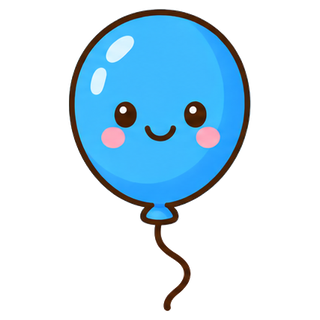
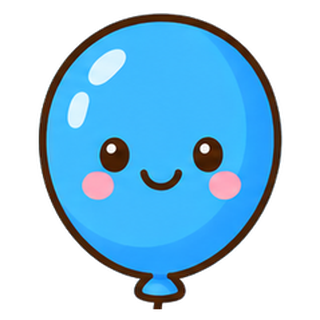
ふうせんの絵: 糸を短くして本体を大きく表示
Claude-Session: https://claude.ai/code/session_01FZu76SbzasG9BssvDrYET1

diff --git a/balloon.html b/balloon.html
@@ -22,7 +22,7 @@
   }
   .balloon::before { content: ""; position: absolute; inset: 0; border-radius: 50% 50% 50% 50% / 45% 45% 55% 55%; background: var(--c); }
   .balloon.img::before, .balloon.img::after { display: none; }
-  .balloon.img > img { position: absolute; inset: -10% 0 -30% 0; width: 100%; height: 140%; object-fit: contain; }
+  .balloon.img > img { position: absolute; left: -8%; top: -8%; width: 116%; height: 116%; object-fit: contain; }
   .balloon::after { content: ""; position: absolute; left: 50%; bottom: -30%; width: 2px; height: 30%; background: rgba(0,0,0,.25); }
   .balloon span { position: relative; }
   @keyframes rise { to { transform: translateY(-160vh); } }
